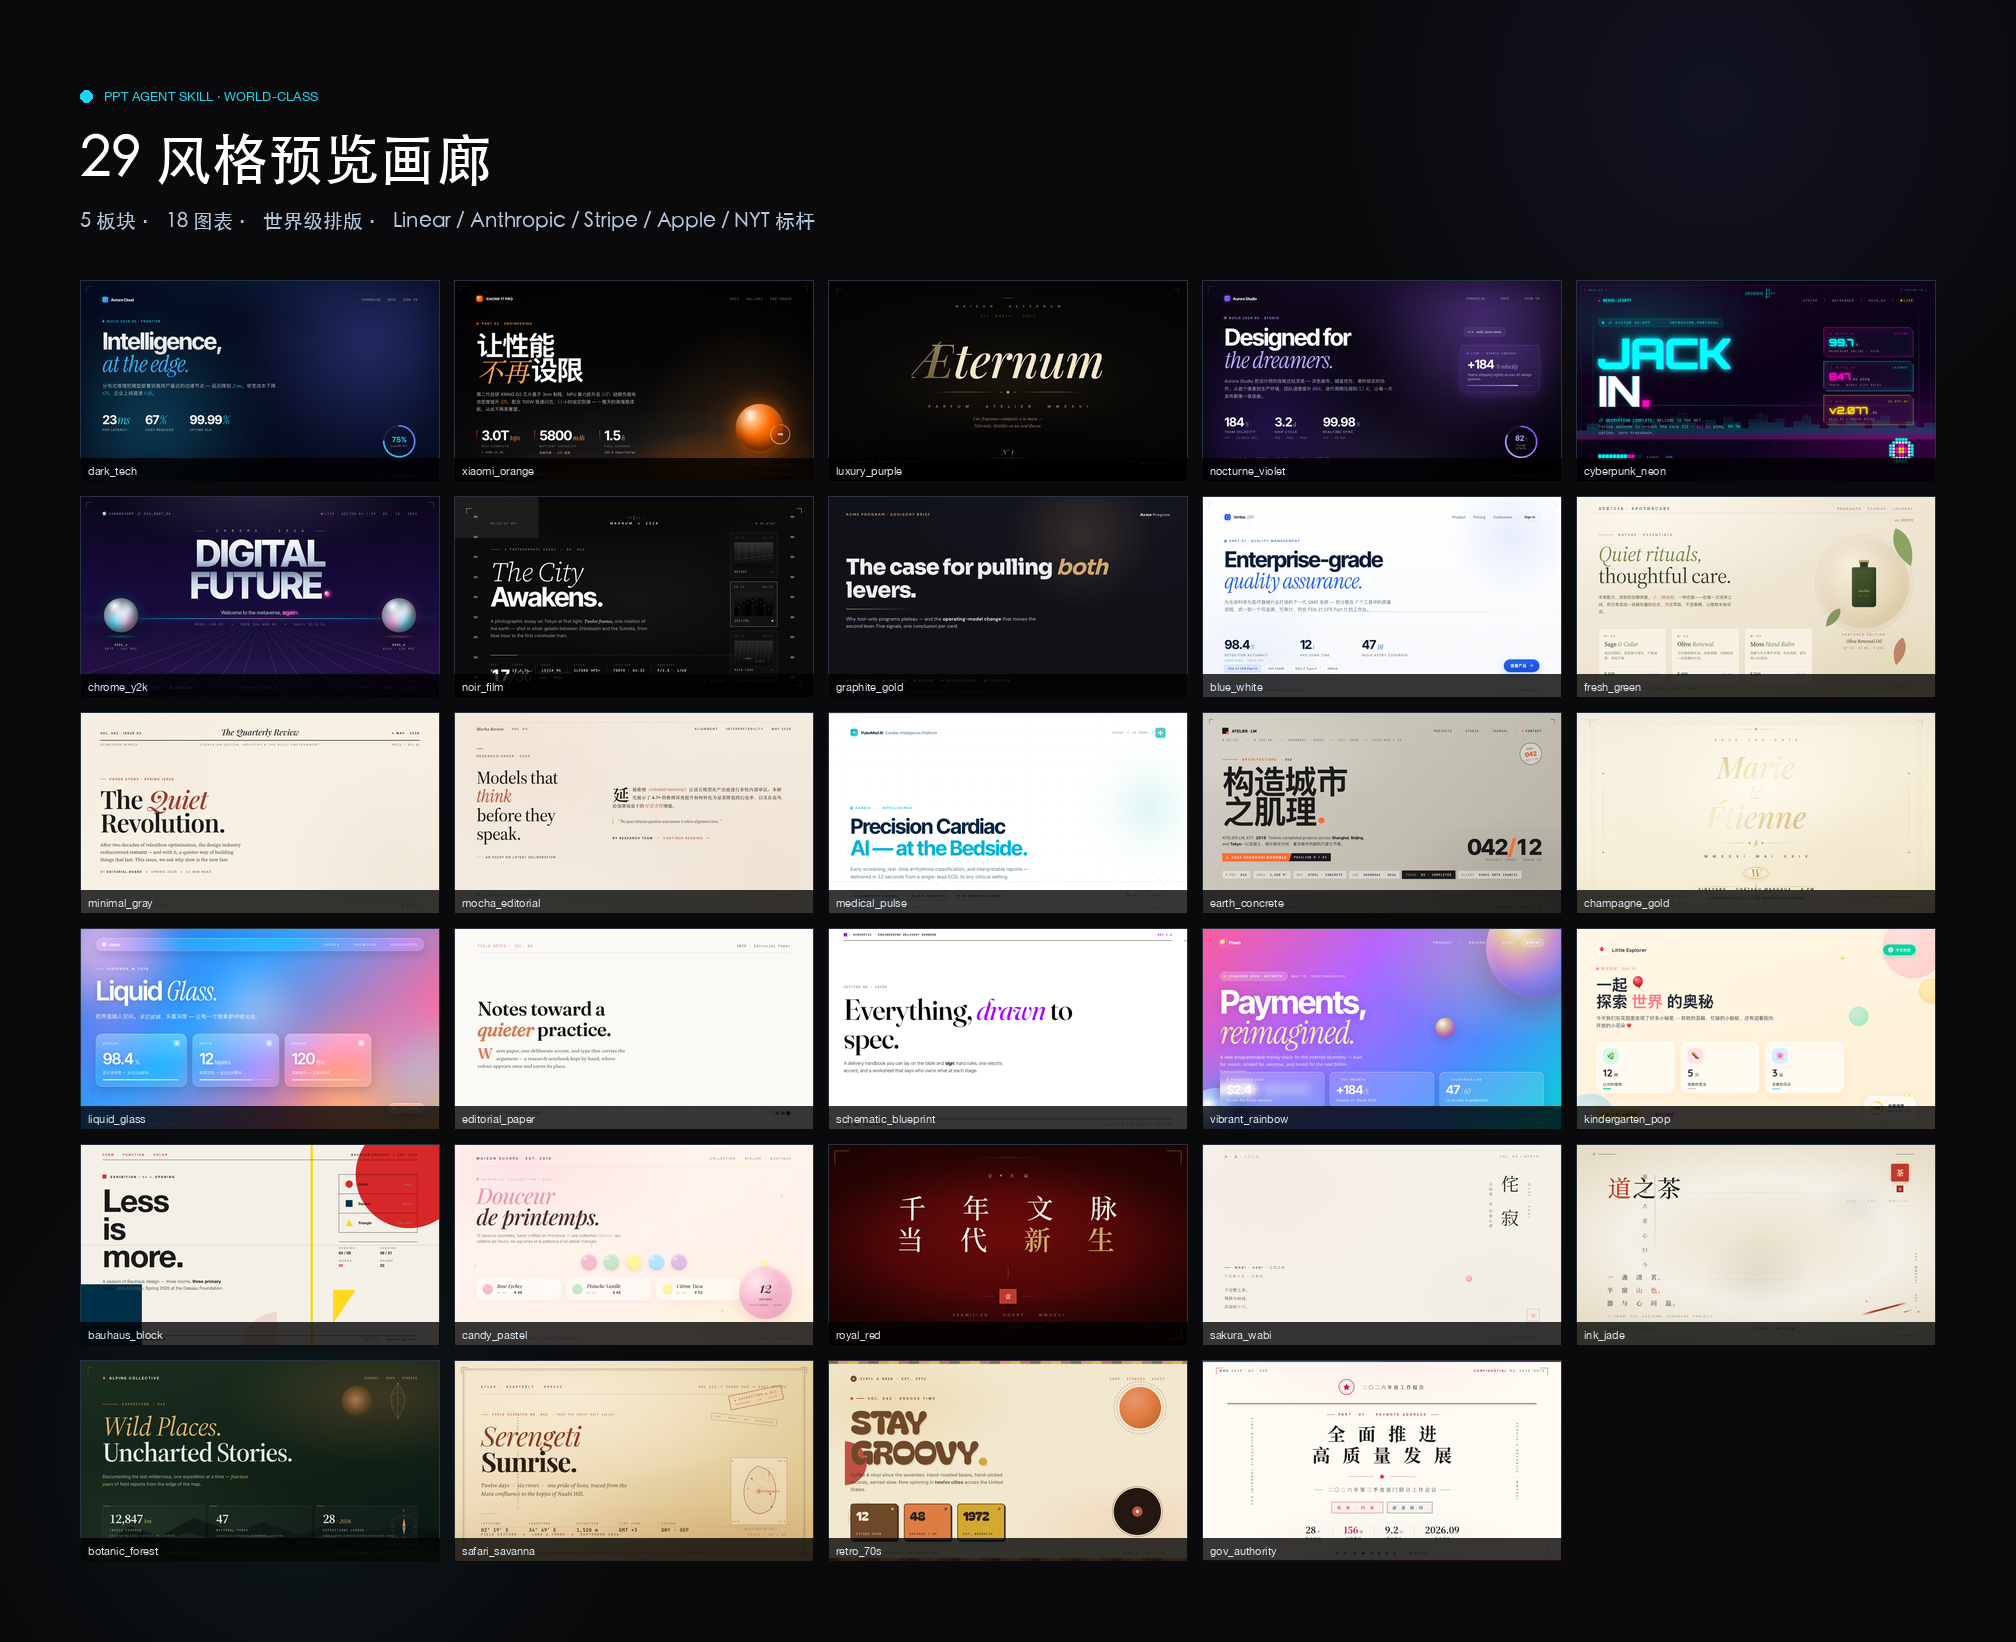
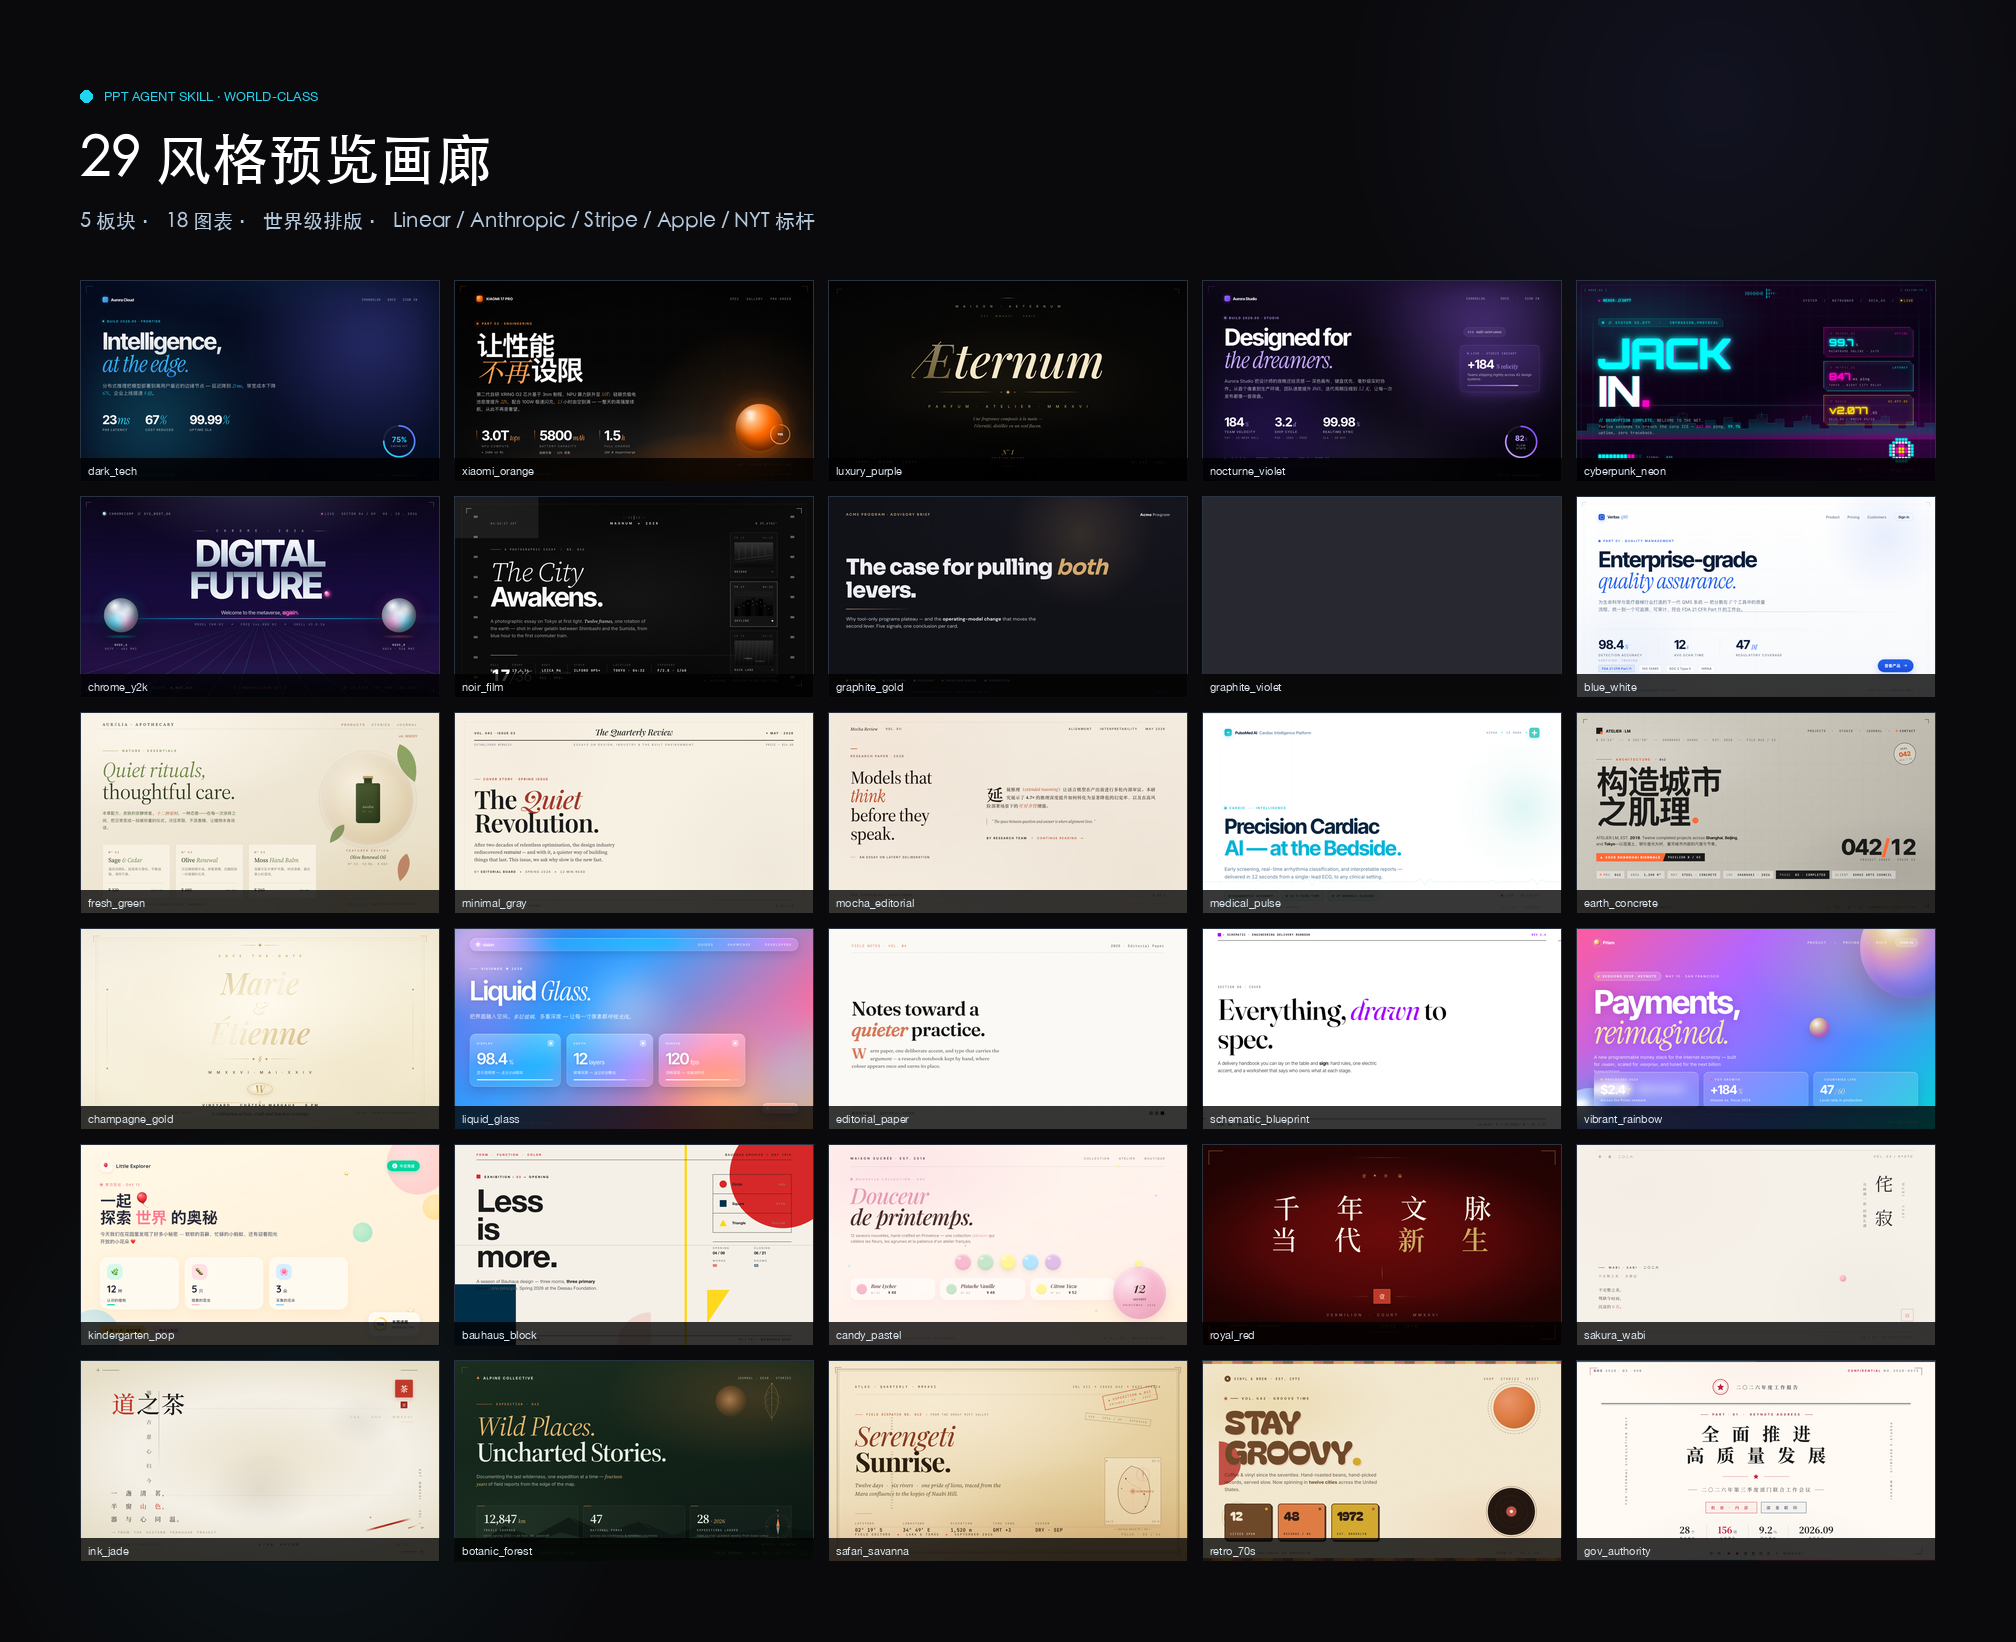
chore(hero): add graphite_violet to dark-professional hero collage
Registers graphite_violet in build_hero.py CATEGORIES and regenerates
hero-dark-professional.png (now 9 styles) and hero-all.png.

diff --git a/scripts/build_hero.py b/scripts/build_hero.py
@@ -24,7 +24,7 @@ CATEGORIES = {
     "dark_professional": {
         "cn": "暗色专业",
         "en": "Dark Professional",
-        "ids": ["dark_tech", "xiaomi_orange", "luxury_purple", "nocturne_violet", "cyberpunk_neon", "chrome_y2k", "noir_film", "graphite_gold"],
+        "ids": ["dark_tech", "xiaomi_orange", "luxury_purple", "nocturne_violet", "cyberpunk_neon", "chrome_y2k", "noir_film", "graphite_gold", "graphite_violet"],
     },
     "light_premium": {
         "cn": "浅色高级",